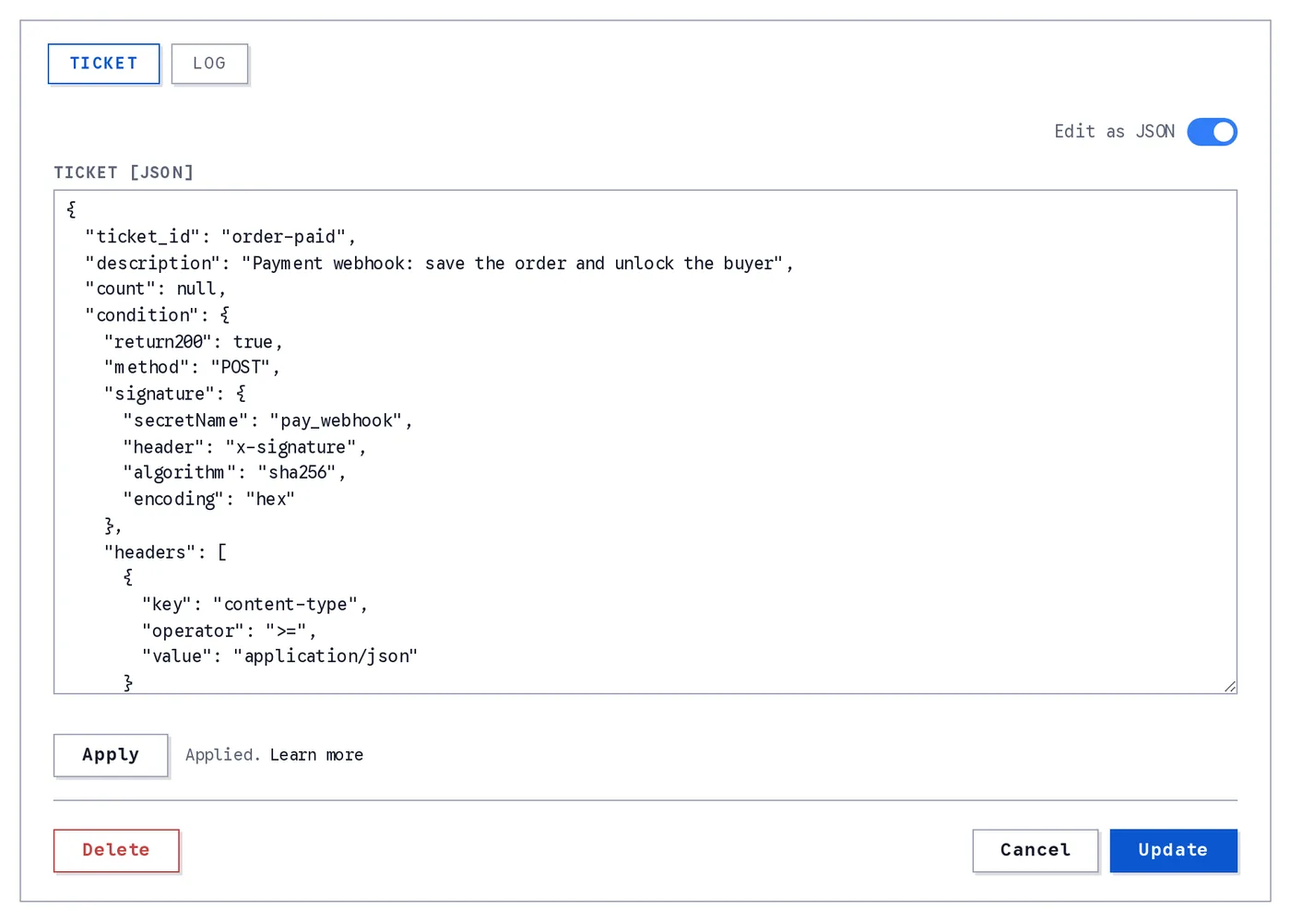
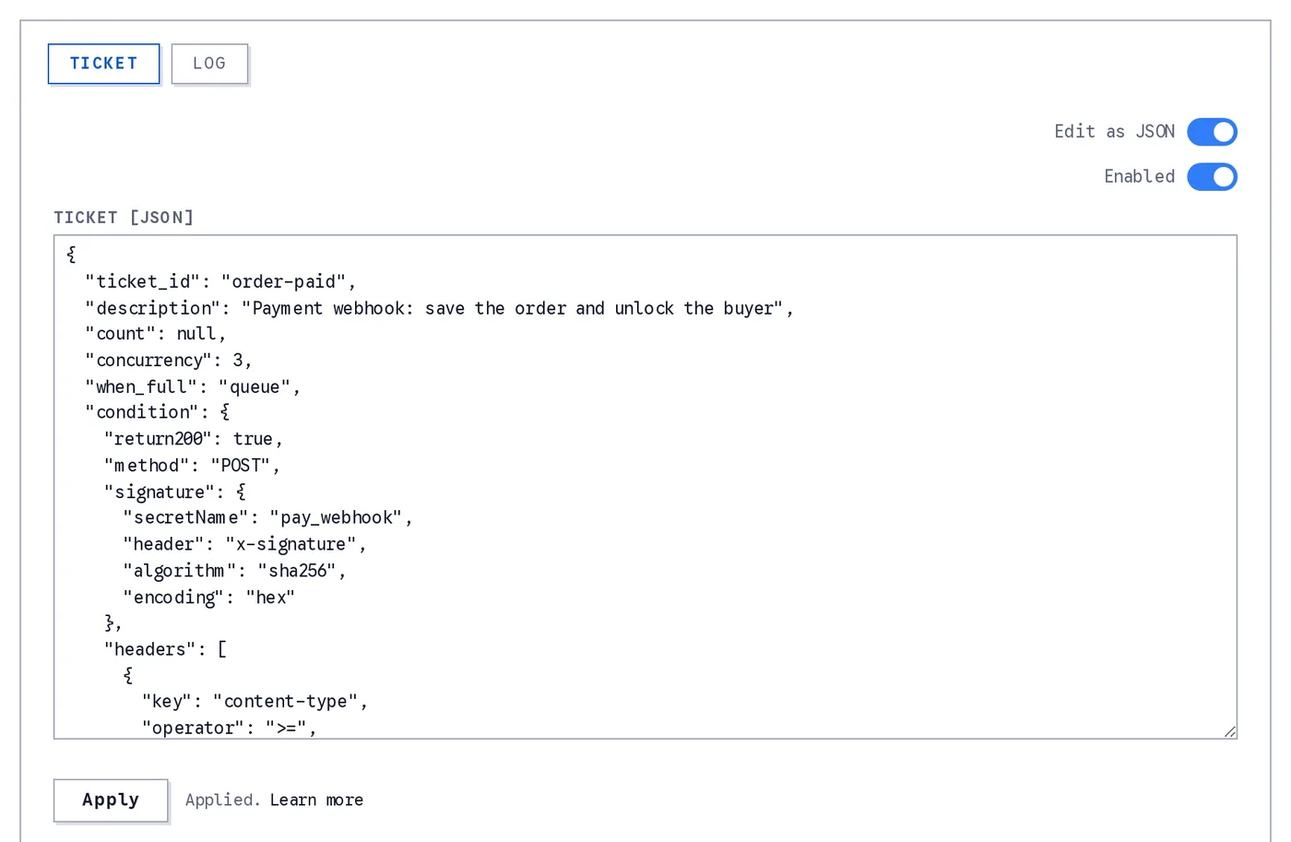
updates

diff --git a/tickets/introduction.md b/tickets/introduction.md
@@ -18,9 +18,9 @@ There is no rollback: actions that already ran stay applied when a later one fai
 
 Tickets are registered from the dashboard. Open your project, click **Tickets** in the project menu, then **+ Register Ticket**.
 
-![The Tickets page of a project: the Register Ticket button, a search box, and a table of registered tickets with their id, Status cell, description, remaining count, per-user limit, expiry and actions](/screenshots/tickets-list.webp)
+![The Tickets page of a project: the Register Ticket button, a search box, and a table of registered tickets with their id, Status cell, description, remaining count and per-user limit; the Status cells read idle, queued, idle with a red dot for a disabled ticket, and busy, 1 waiting](/screenshots/tickets-list.webp)
 
-*The Tickets page. Every registered ticket is one row with its Status: a green or red dot for enabled or disabled, then idle, queued or recursing. Click a row to open it, search by id or description, and tick rows to delete several at once.*
+*The Tickets page. Every registered ticket is one row with its Status: a green or red dot for enabled or disabled, then idle, queued, recursing or busy, with the number of calls waiting in the ticket's line when there are any. Click a row to open it, search by id or description, and tick rows to delete several at once.*
 
 The **Status** cell is a green dot (enabled) or a red dot (disabled), then one word: `idle` when no queued run of the ticket is waiting, `queued` when at least one queued run is waiting to come due, and `recursing` when a queued run is waiting and one of the ticket's actions, at any depth, is an HTTP request to a ticket URL of this project (a URL with `/tp/<service_id>/`, `/tg/<service_id>/` or `/tpa/<service_id>/`), the shape of a ticket that keeps itself going. A ticket with a **Concurrency** setting reads `busy` while every slot it has is taken, with the number of calls waiting in its line when there are any; see [One at a time: concurrency](#one-at-a-time-concurrency). The switch that turns a ticket on and off is at the top of its detail view; see [Disabling a ticket](#disabling-a-ticket).
 
@@ -36,9 +36,9 @@ The detail view has these sections:
 - **Actions**: what happens once the condition passes. See [Actions](/tickets/actions.md).
 - **Log**: on an existing ticket, every consumption. See [Reading the Log in the Dashboard](/tickets/errors.md#reading-the-log-in-the-dashboard).
 
-![A ticket opened in the dashboard: the Ticket and Log tabs, the Edit as JSON toggle with the Enabled switch next to it, the Ticket fields, and the Endpoints section with the POST, GET and Dry run URLs](/screenshots/tickets-register.webp)
+![A ticket opened in the dashboard: the Ticket and Log tabs, the Edit as JSON toggle with the Enabled switch next to it, the Ticket fields including Concurrency set to 3 and When full set to Wait in line, and the Endpoints section with the POST, GET and Dry run URLs](/screenshots/tickets-register.webp)
 
-*A ticket opened from the list, with its Enabled switch next to Edit as JSON. The same form registers a new ticket, and its Endpoints, POST, GET and Dry run, appear as soon as you type an id.*
+*A ticket opened from the list, with its Enabled switch next to Edit as JSON, and Concurrency with When full under Limit per user. The same form registers a new ticket, and its Endpoints, POST, GET and Dry run, appear as soon as you type an id.*
 
 ### Ticket fields
 
@@ -97,7 +97,11 @@ Each run that waited counts as one of the plan's [queued ticket runs](/introduct
 
 **Refuse.** When every slot is taken, a call fails with `TICKET_BUSY`, HTTP `429` (or `200` with **Always 200**), and none of its actions run: nothing is consumed. The error's `detail` carries `concurrency`, `running` (consumptions in flight), `waiting` (calls in the line) and `self_calling`. Unlike the other refusals made before a chain runs, it is written to the Log tab as a failed row, so you can see the limit at work. A `req` from another ticket that gets it does not try again, whatever its `retry` says.
 
-**A ticket that calls itself keeps its line to itself.** A ticket whose actions hold, at any depth, a `req` to its own endpoint is a **self-calling** ticket, the shape of one that keeps itself going: it answers, waits, does its work and calls its own URL for the next round. For such a ticket the line is only for its own next round. While it is full, any other call is refused with `TICKET_BUSY`, under Wait in line as under Refuse, and the message says why. So a bot started by opening its GET link once cannot be started a second time by opening the link again while it runs: the second click is told the ticket is busy, and a second copy of the loop is never born. Under Refuse the ticket's own next round is refused too and the loop ends after one round, so a self-calling ticket wants Concurrency `1` and Wait in line.
+**A ticket that calls itself keeps its line to itself.** A ticket whose actions hold, at any depth, a `req` to its own endpoint is a **self-calling** ticket, the shape of one that keeps itself going: it answers, waits, does its work and calls its own URL for the next round. For such a ticket the line is only for its own next round. While it is full, any other call is refused with `TICKET_BUSY`, under Wait in line as under Refuse, and the message says why. So a bot started by opening its GET link once cannot be started a second time by opening the link again while it runs: the second click is told the ticket is busy, and a second copy of the loop is never born. When full has no effect on such a ticket: its own next round always waits and everyone else is always refused, so all a self-calling ticket needs is Concurrency `1`.
+
+**Closed loops: Concurrency `1` and a self-calling ticket.** To put it plainly: while a self-calling ticket with Concurrency `1` is running, any other request to it is answered with `TICKET_BUSY`, whether When full is Wait in line or Refuse; the setting has no effect on a self-calling ticket, whose own next round always waits. So for a closed-loop recursive task, a job that must keep running on its own and must exist exactly once, Concurrency `1` on a self-calling ticket is the way to go: one copy, started by one call, refusing every other start until you switch it off.
+
+**Never run a self-calling ticket without a concurrency limit.** Without it, nothing stops a second copy. Every extra call to the ticket's endpoint, a second click on the link, a browser that prefetches it, a webhook sender that retries, a crawler that found the URL, starts another loop, and each loop re-queues itself forever. The copies multiply instead of ending: every one of them makes the chain's API calls, posts, e-mails and records, every one of them takes queued runs from the month's figure, and the only way out is switching the ticket off, which stops all of them at once. A loop with `"resume": "0m"` and no limit does all of this as fast as the queue can start rounds. Concurrency `1` turns that into one loop that cannot be doubled.
 
 A ticket that posts something once a day, started by one click:
 
@@ -107,7 +111,6 @@ A ticket that posts something once a day, started by one click:
   "description": "Posts one record a day",
   "condition": { "method": "GET" },
   "concurrency": 1,
-  "when_full": "queue",
   "actions": [
     { "act": "resp", "exe": { "status": 200, "body": { "ok": true }, "resume": "1d" } },
     { "act": "pstr", "exe": { "table": { "name": "daily", "access_group": "public" }, "data": { "at": "${ticket[timestamp]}" } } },
@@ -118,7 +121,7 @@ A ticket that posts something once a day, started by one click:
 
 Open the GET endpoint once in a browser: the Respond answers `{ "ok": true }` and the rest waits a day, holding the ticket's one slot. A day later the record is posted and the `req` calls the ticket's own URL; that call finds the slot still taken by the round that is making it, waits in the line, and starts the moment the round is over, holding the slot for the next day. Open the link again meanwhile and you get `TICKET_BUSY`. To stop the bot, switch the ticket off: the round that was waiting is skipped and logged with `skipped: disabled` (see [Disabling a ticket](#disabling-a-ticket)). Between the Respond and the self-call the chain can do anything an action can: fetch or generate what it posts with a `req` to an API and your [Secret Key](/tickets/actions.md#sending-a-secret-key), post a record, send an e-mail. See [Repeating Every 30 Minutes](/tickets/examples.md#repeating-every-30-minutes).
 
-In the list, the **Status** cell of a ticket with the setting reads `busy` while every slot is taken, with the number of calls waiting in its line when there are any. The ticket's [`getTickets()`](/api-reference/tickets/README.md#gettickets) row carries `concurrency`, `when_full`, `running` (in flight now), `waiting` (in the line) and `self_calling`.
+In the list, the **Status** cell of a ticket with the setting reads `busy` while every slot is taken, with the number of calls waiting in its line when there are any, and the ticket's **Log** tab shows the setting with the live running and waiting figures above the rows. The ticket's [`getTickets()`](/api-reference/tickets/README.md#gettickets) row carries `concurrency`, `when_full`, `running` (in flight now), `waiting` (in the line) and `self_calling`.
 
 An AI agent sets these with the MCP server's ticket tool (`concurrency` and `when_full` on `register`); you can also describe the whole bot in a sentence, such as "make me a bot that posts a developer joke every morning", and let it ask what it needs and register the ticket. See [Connecting the Skapi MCP server](/introduction/getting-started.md#connecting-the-skapi-mcp-server).
 
@@ -128,7 +131,7 @@ Changing Concurrency on a ticket with calls in flight applies to new calls; the 
 
 The **Edit as JSON** toggle at the top of the form shows the same ticket as one JSON document, which is the form the examples in this guide use:
 
-![The same ticket in JSON mode: the Edit as JSON toggle is on, the Ticket JSON editor holds the whole document, and an Apply button sits under it](/screenshots/tickets-json.webp)
+![The same ticket in JSON mode: the Edit as JSON toggle is on, the Ticket JSON editor holds the whole document with ticket_id, description, count, concurrency, when_full and the condition, and an Apply button sits under it](/screenshots/tickets-json.webp)
 
 *JSON mode. Edit or paste the whole ticket, click Apply to load it into the builder, then Register or Update to save.*
 
@@ -139,6 +142,9 @@ type Ticket = {
   count?: number | null;             // uses left; null = unlimited
   limit_per_user?: number | boolean | null; // per signed-in user; true = 1; false, 0 or null = no limit
   time_to_live?: number | null;      // expiry, ms since the epoch; null = never
+  enabled?: boolean;                 // false registers the ticket switched off; absent keeps the stored state (a new ticket is on)
+  concurrency?: number | null;       // calls in flight at once, 1 to 100; absent or null = unlimited
+  when_full?: "queue" | "refuse";    // with concurrency: a place in the line and a 202 receipt (default), or TICKET_BUSY
   condition?: {
     return200?: boolean;               // answer 200 even when it fails
     method?: "GET" | "POST";           // absent = both
@@ -227,7 +233,7 @@ type HttpRequest = {
   secretName?: string;               // fills ${CLIENT_SECRET}
   headers?: { [name: string]: string };
   data?: any;                        // body, POST and PUT only
-  params?: { [key: string]: string };
+  params?: { [key: string]: any };   // the query string; a value that is not text is sent as compact JSON
   actions?: Action[];                // read the response as ${response}: status, headers, body; a Check answer in it checks the response
 };
 ```

diff --git a/api-reference/tickets/README.md b/api-reference/tickets/README.md
@@ -35,6 +35,8 @@ type TicketReceipt = {
     is_test: boolean;   // Always false here: dry runs go through the check URL, which consumeTicket() never calls.
     timestamp: number;  // When the consumption happened, in milliseconds. Decoded from consume_id.
     hash: string;       // Proof string of the consumption.
+    queued?: true;      // The call waited for a concurrency slot: this is the queued receipt below, and the actions run later.
+    position?: number;  // With queued: the call's place in the line, 1 = next.
 }
 
 // What the endpoint answers, HTTP 202 (200 under return200), when the ticket has a concurrency
@@ -99,15 +101,15 @@ getTickets(
     enabled?: boolean;                 // false while the owner has the ticket switched off: every call answers TICKET_DISABLED and a queued run that comes due is skipped, logged with skipped: disabled.
     queued?: number;                   // Queued runs of the ticket still waiting to come due. The dashboard's Status cell reads queued (or recursing) while this is above 0, idle otherwise.
     queued_due?: number;               // When the most recently queued run comes due, in milliseconds since the epoch.
-    concurrency?: number;              // How many consumptions may be in flight at once, 1 to 100. Absent = unlimited.
-    when_full?: 'queue' | 'refuse';    // What a call gets when every slot is taken: a place in the line and a 202 receipt, or TICKET_BUSY. Absent = 'queue'. Only with concurrency.
+    concurrency?: number;              // How many consumptions may be in flight at once, 1 to 100. Absent = unlimited. A self-calling ticket (a closed loop) should always have 1: while it runs, every other request gets TICKET_BUSY whatever when_full says, so one loop can never become two; without the setting every extra call starts another copy that re-queues itself forever.
+    when_full?: 'queue' | 'refuse';    // What a call gets when every slot is taken: a place in the line and a 202 receipt, or TICKET_BUSY. Absent = 'queue'. Only with concurrency. No effect on a self-calling ticket: its own next round always waits, everyone else is refused.
     running?: number;                  // Consumptions in flight now: running, or waiting to go on after a Respond. Only with concurrency.
     waiting?: number;                  // Calls waiting in the ticket's line for a slot. Only with concurrency.
     self_calling?: boolean;            // true when an action of the ticket, at any depth, is a req to the ticket's own endpoint: while it is full only its own next round may wait, every other call gets TICKET_BUSY.
     condition?: TicketCondition;
     actions?: TicketAction[];
-    legacy?: boolean;
-    rules_version?: number; // The rules the ticket was saved under: 2 = an HTTP request answers the whole response. Absent on a ticket saved before 2026-10-09, which keeps answering the body alone until it is saved again. Project owner only. See https://docs.skapi.com/deprecated/deprecated.html#a-request-s-answer-was-its-body                  // true: marked "previous rules" on the dashboard. It runs by the rules it was saved with until it is registered again.
+    legacy?: boolean;                  // true: marked "previous rules" on the dashboard. It runs by the rules it was saved with until it is registered again.
+    rules_version?: number;            // The rules the ticket was saved under: 2 = an HTTP request answers the whole response. Absent on a ticket saved before 2026-10-09, which keeps answering the body alone until it is saved again. Project owner only. See https://docs.skapi.com/deprecated/deprecated.html#a-request-s-answer-was-its-body
 }[]>>
 ```
 
@@ -368,7 +370,7 @@ type TicketAction =
         exe: {
             status?: number | string; // 100 to 599, or a reference. Default 200. An error status is an answer, not a failure.
             body?: any; // Any JSON, templated. Absent: the receipt { tkid, hash }. A "stage" key is refused.
-            resume?: 'stop' | '0m' | string | number; // After the answer: "stop" (default), "0m" (go on at once, in the background), "10m" | "2h" | "3d" (after that delay), or a time in milliseconds since the epoch (a literal in the past is refused). A run that goes on is a queued run, metered per month.
+            resume?: 'stop' | '0m' | string | number; // After the answer: "stop" (default), "0m" (go on at once, in the background), "10m" | "2h" | "3d" (after that delay, rounded to the nearest whole minute: the run starts a few seconds after that :00), or a time in milliseconds since the epoch (a literal in the past is refused, a fixed time starts on the second). A run that goes on is a queued run, metered per month.
         };
         err?: TicketAction[];
     }
@@ -432,7 +434,7 @@ type TicketError = {
     message: string; // Human readable, one sentence.
     stage: 'ticket' | 'condition' | 'action';
     action?: { // Only when stage is 'action'.
-        act: 'acsg' | 'acsr' | 'pstr' | 'req' | 'resp' | 'cond';
+        act: 'acsg' | 'acsr' | 'pstr' | 'req' | 'mail' | 'nlsd' | 'resp' | 'cond';
         path: string; // The failed action's place in the ticket, such as "actions[1].err[0]".
     };
     detail?: { [key: string]: any }; // Code specific, such as { field, keys } on CONDITION_FAILED, { status, body } or { reason } on REQUEST_FAILED, and { concurrency, running, waiting, self_calling } on TICKET_BUSY. See the error table.

diff --git a/tickets/actions.md b/tickets/actions.md
@@ -83,7 +83,7 @@ Templating only touches string **values**, never object keys. `"amount": "${body
 ## `acsg`: set the access group of a user
 
 ```ts
-exe: { group: number (1..99) | "admin", user_id?: string }
+exe: { group: number (1..99) | "admin", user_id?: string, actions?: Action[] }   // actions: the Then chain, reading the SUCCESS text as ${response}
 ```
 
 The target is `user_id`, or the consumer when `user_id` is absent (on a call that is not `consumeTicket()` with `auth: true`, that raises `AUTH_REQUIRED`). `"admin"` is access group `99`.
@@ -101,7 +101,7 @@ Answers the text the grant returns, `SUCCESS: Access has been granted to the use
 ## `acsr`: grant private access to a record
 
 ```ts
-exe: { record_id: string, user_id?: string | string[] }
+exe: { record_id: string, user_id?: string | string[], actions?: Action[] }   // actions: the Then chain, reading the SUCCESS text as ${response}
 ```
 
 The targets are `user_id` (one id or a list; on the dashboard, ids separated by commas), or the consumer. `record_id` must be a record id, not a unique id.
@@ -513,7 +513,7 @@ A Respond answers the consumer **now**, with `status` and `body`, instead of the
 |---|---|
 | absent, or `"stop"` | the rest of the chain does not run |
 | `"0m"` | the rest of the chain goes on at once, in the background |
-| `"10m"`, `"2h"`, `"3d"` | it goes on after that delay, to the minute: ten minutes means ten minutes plus up to a minute |
+| `"10m"`, `"2h"`, `"3d"` | it goes on after that delay, rounded to the nearest whole minute: the run starts a few seconds after that :00, so a chain that repeats keeps its grid (see [Going on later](#going-on-later-queued-runs)) |
 | a number | a time in milliseconds since the epoch: it goes on at that time, to the second. A literal time in the past is refused at registration; a time a reference fills in that is already past goes on at once |
 
 Anything else is refused: `"actions[0].exe.resume" should be "stop", "0m", a delay such as "10m", "2h" or "3d", or a time in milliseconds since the epoch.` Every run that goes on is a **queued run**, counted against the plan's monthly figure; see [Going on later](#going-on-later-queued-runs).
@@ -635,7 +635,7 @@ A Respond with `resume` other than `"stop"` ends the consumption for the caller 
 What a queued run costs and what can stop it:
 
 - Every run that goes on counts toward the plan's **queued ticket runs** for the UTC month. When the month's figure is reached the dashboard shows a banner on the project's pages, and the same two numbers are on the `Settings` page under Plan & Usage. The figures: Trial 100, Standard 10,000, Premium 100,000 and $1.00 per 1,000 past that. On Trial and Standard a Respond that would queue a run past the month's figure fails with `QUOTA_EXCEEDED` (`Queued ticket runs for this month are used up. Consider upgrading your plan.`, `detail: { field: "tkq", limit, used, month }`) before it answers; its `err` chain runs, and a Respond that stops is never affected. The **Plan & Usage** card shows the month's figure, and the Tickets page says so when it is used up. See [Plans and Limits](/introduction/plans.md#queued-ticket-runs).
-- A delay is counted to the minute: a run queued for `"10m"` starts between ten and eleven minutes later. A fixed time starts on the second.
+- A delay is rounded to the nearest whole minute (`:00` seconds) and the run starts a few seconds after it: `"10m"` queued at 10:00:04 goes on at 10:10:00, queued at 10:00:40 at 10:11:00. That is what keeps a repeating ticket on its grid: a round that starts at 10:00:00 and takes a few seconds queues 10:30:00, not 10:30:03, so the rounds stay on the same minutes however long the loop runs (as long as a round's own work takes under 30 seconds). A fixed time starts on the second.
 - Deleting the ticket drops its runs that are still waiting, when they come due; so does deleting the project. A run that cannot be started after three tries is written to the log as a failed row with `skipped`, and so is a run that comes due while its ticket is switched off, with `skipped: disabled` (see [Disabling a ticket](/tickets/introduction.md#disabling-a-ticket)).
 - A `req` to a ticket URL of this project (`/tp/`, `/tg/` or `/tpa/<service_id>/`) is accepted only after a Respond on its chain path, so such a call is always made from a queued run: counted, delayed or scheduled, and logged. Registration refuses it anywhere earlier; see [URL and address rules](#url-and-address-rules).
 - On a ticket with a **Concurrency** setting, a run that waits holds the consumption's slot for the whole wait: a ticket with Concurrency `1` whose chain answers with `"resume": "1d"` is full for that day, and a call made to it meanwhile waits in its line or is refused with `TICKET_BUSY`, as its **When full** says. See [One at a time: concurrency](/tickets/introduction.md#one-at-a-time-concurrency).

diff --git a/tickets/examples.md b/tickets/examples.md
@@ -482,6 +482,7 @@ A ticket that runs on its own every half hour, with nothing outside Skapi callin
 {
   "ticket_id": "poster",
   "description": "Posts a record every 30 minutes",
+  "concurrency": 1,
   "condition": { "method": "GET" },
   "actions": [
     { "act": "resp", "exe": { "status": 200, "body": { "ok": true }, "resume": "30m" } },
@@ -493,7 +494,11 @@ A ticket that runs on its own every half hour, with nothing outside Skapi callin
 
 `"resume": "30m"`. The Respond answers the caller and leaves the rest of the chain to a queued run half an hour later: the record is posted, then the `req` calls the ticket's own GET endpoint, which answers at once and queues the next round. The `req` is allowed because the Respond comes before it in the chain: the self-call is made from a queued run, counted, delayed and logged like any other. The same `req` placed before the Respond, or in a ticket with no Respond, is refused when you register, since the call would then run inside the request it is answering (see [URL and address rules](/tickets/actions.md#url-and-address-rules)). Open the endpoint once in a browser to start it; switch the ticket off (the switch at the top of the ticket, or `disable` from the MCP server) to stop it, and the round that was waiting is skipped and logged as a failed row with `skipped: disabled`.
 
-Give such a ticket **Concurrency** `1` and **When full** set to **Wait in line** (`"concurrency": 1, "when_full": "queue"` in the JSON). One slot means one round in flight at a time: the waiting round holds it, so the loop can never run twice at once, and a second click on the link while it runs is refused with `TICKET_BUSY` instead of starting a second copy of the loop. The self-call at the end of each round finds the slot still taken by the round making it, waits in the line, and starts the moment that round is over. With **Refuse** the self-call would be refused too, and the loop would end after one round. See [One at a time: concurrency](/tickets/introduction.md#one-at-a-time-concurrency).
+The rounds land on whole minutes: a delay is rounded to the nearest `:00`, so a loop started at 10:00 runs at 10:30, 11:00 and so on, however many seconds each round takes (see [Going on later](/tickets/actions.md#going-on-later-queued-runs)).
+
+`"concurrency": 1` is part of the recipe. One slot means one round in flight at a time: the waiting round holds it, so the loop can never run twice at once, and a second click on the link while it runs is refused with `TICKET_BUSY` instead of starting a second copy of the loop. The self-call at the end of each round finds the slot still taken by the round making it, waits in the line, and starts the moment that round is over. **When full** has no effect on a ticket that calls itself: its own next round always waits and everyone else is always refused, so there is nothing to set there. See [One at a time: concurrency](/tickets/introduction.md#one-at-a-time-concurrency).
+
+Do not register a ticket like this without the setting. Without a concurrency limit every extra call to its link (a second click, a browser prefetch, a webhook retry, a crawler) starts another copy of the loop, each copy re-queues itself forever, and the copies multiply their records, API calls and queued runs until the ticket is switched off. See [Closed loops](/tickets/introduction.md#one-at-a-time-concurrency).
 
 Each round is one queued ticket run against the plan's month, two with Concurrency 1 (the waiting round, and the self-call's place in the line): 48 rounds a day, about 1,440 a month, or about 2,880 with the setting. On Trial, whose month holds 100, the loop stops at the figure with `QUOTA_EXCEEDED` at the Respond (or at the self-call's entry into the line) and the dashboard shows the banner; Standard holds 10,000 and Premium 100,000 before overage. A round with no wait (`"resume": "0m"`) is not a timer: each round is still a queued run against the month's figure, and the rounds follow one another as fast as the queue starts them, so the figure is what ends the loop. A `req` to itself with no Respond before it cannot be registered at all.
 

diff --git a/tickets/errors.md b/tickets/errors.md
@@ -159,11 +159,11 @@ The project owner lists them with [`getTickets()`](/api-reference/tickets/README
 
 ## Reading the Log in the Dashboard
 
-Open the ticket on the **Tickets** page and switch to the **Log** tab.
+Open the ticket on the **Tickets** page and switch to the **Log** tab. On a ticket with a [Concurrency](/tickets/introduction.md#one-at-a-time-concurrency) setting, a line under the From and To fields shows the setting and the live figures: the Concurrency, whether the ticket waits in line or refuses when full (or that it is self-calling), how many calls are running and how many are waiting; the refresh icon re-reads them with the log. A ticket that calls itself without the setting shows a warning there instead.
 
-![The Log tab of a ticket: From and To fields and a Clear log link above five consumptions with their time, consumer and result: a resumed run, a consumption answered 202 and marked queued, two failures with their error code in red, and a dry run marked check, each with a Details link](/screenshots/tickets-logs.webp)
+![The Log tab of a ticket: From and To fields and a Clear log link, under them a line reading Concurrency 3, waits in line when full, 2 running, 0 waiting, and below seven consumptions with their time, consumer and result: a run answered 202 and marked after the line, the receipt it followed marked in line, a resumed run, a consumption answered 202 and marked queued, two failures with their error code in red, and a dry run marked check, each with a Details link](/screenshots/tickets-logs.webp)
 
-*The Log tab, newest first. A consumption a Respond answered reads answered 202 with a queued mark, the run that went on later reads resumed, a failed consumption names its error code, and a dry run reads check. From and To narrow the range; Clear log deletes rows before a time.*
+*The Log tab, newest first, with the ticket's concurrency line above the rows. A call that waited for a concurrency slot reads receipt with an in line mark, and the run that followed it is marked after the line; a consumption a Respond answered reads answered 202 with a queued mark, the run that went on later reads resumed, a failed consumption names its error code, and a dry run reads check. From and To narrow the range; Clear log deletes rows before a time.*
 
 Each row shows the **Time**, the **Consumer** (the user id on a `consumeTicket()` call with `auth: true`, otherwise the caller's IP address; the user agent is in the details) and the **Result**: `ok`, `failed: <code>`, `check` for a dry run, `answered <status>` when a Respond answered, or `resumed` for a queued run; a **queued** mark says the consumption's chain goes on later, a **resumed** mark that the row is such a run. Hovering a failed result shows what its code means. **From** and **To** narrow the list to a time range. **[Details]** opens the full log row described above, with the `note` under its header when the request carried one, and lists the [action rows](#the-action-rows) under it, each opening to its own JSON. **Load more** fetches the next page, the refresh icon reloads the log, and **[Clear log]** deletes rows before a time ([Clearing the log](#clearing-the-log)).
 

diff --git a/versionlog/versions.md b/versionlog/versions.md
@@ -5,7 +5,7 @@
 **2.2.20**
 
 - **Tickets run one at a time when you say so.** `Ticket` gains **`concurrency`** (how many consumptions may be in flight at once, 1 to 100; absent = unlimited) and **`when_full`** (`'queue'`, the default, or `'refuse'`), set on the Tickets page or with the MCP server's ticket tool. In flight means running now, or answered with a Respond whose rest still waits to go on: the wait holds its slot. With `'queue'`, a call that finds every slot taken gets its receipt at once (HTTP 202, `queued: true` and `position` on `TicketReceipt`) and its chain runs when its turn comes, first in first out; with `'refuse'` it rejects with the new code **`TICKET_BUSY`** (HTTP 429, 200 under `return200`). A ticket whose actions call its own endpoint keeps its line to itself: while it is full only its own next round may wait, and an outside call is refused even under `'queue'`, so a repeating ticket started once cannot be started twice. `getTickets()` rows carry `running`, `waiting` and `self_calling`. See [One at a time: concurrency](/tickets/introduction.md#one-at-a-time-concurrency).
-- Backend (ships with the API, not the SDK): a run that waited in the line counts as a queued run on the month's figure; a dry run never takes a slot.
+- Backend (ships with the API, not the SDK): a run that waited in the line counts as a queued run on the month's figure; a dry run never takes a slot. A Respond's relative delay (`"10m"`, `"2h"`, `"3d"`) is now rounded to the nearest whole minute and the run starts a few seconds after that `:00` (it used to start up to a minute late), so a repeating ticket keeps its grid. See [Going on later](/tickets/actions.md#going-on-later-queued-runs).
 
 **2.2.19**
 
